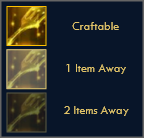
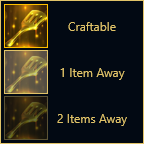
Added descriptions

diff --git a/itemscript.js b/itemscript.js
@@ -407,3 +407,23 @@ for (let i = 0; i < 2; i++) {
     craftedItems[i].push(td);
   }
 }
+
+let timer;
+let delay = 10;
+
+$(".itemtabledata").hover(
+  function(){
+    // clearTimeout(timer)
+    const id = $(this).attr("id")
+    if (!id){
+      return
+    }
+    $("#legend").attr("src", "./assets/descriptions/" + id + ".png")
+  },
+  function(){
+    $("#legend").attr("src", "./assets/legend.png")
+    // timer = setTimeout(function(){
+    //   $("#legend").attr("src", "./assets/legend.png")
+    // }, delay)
+  }
+)
